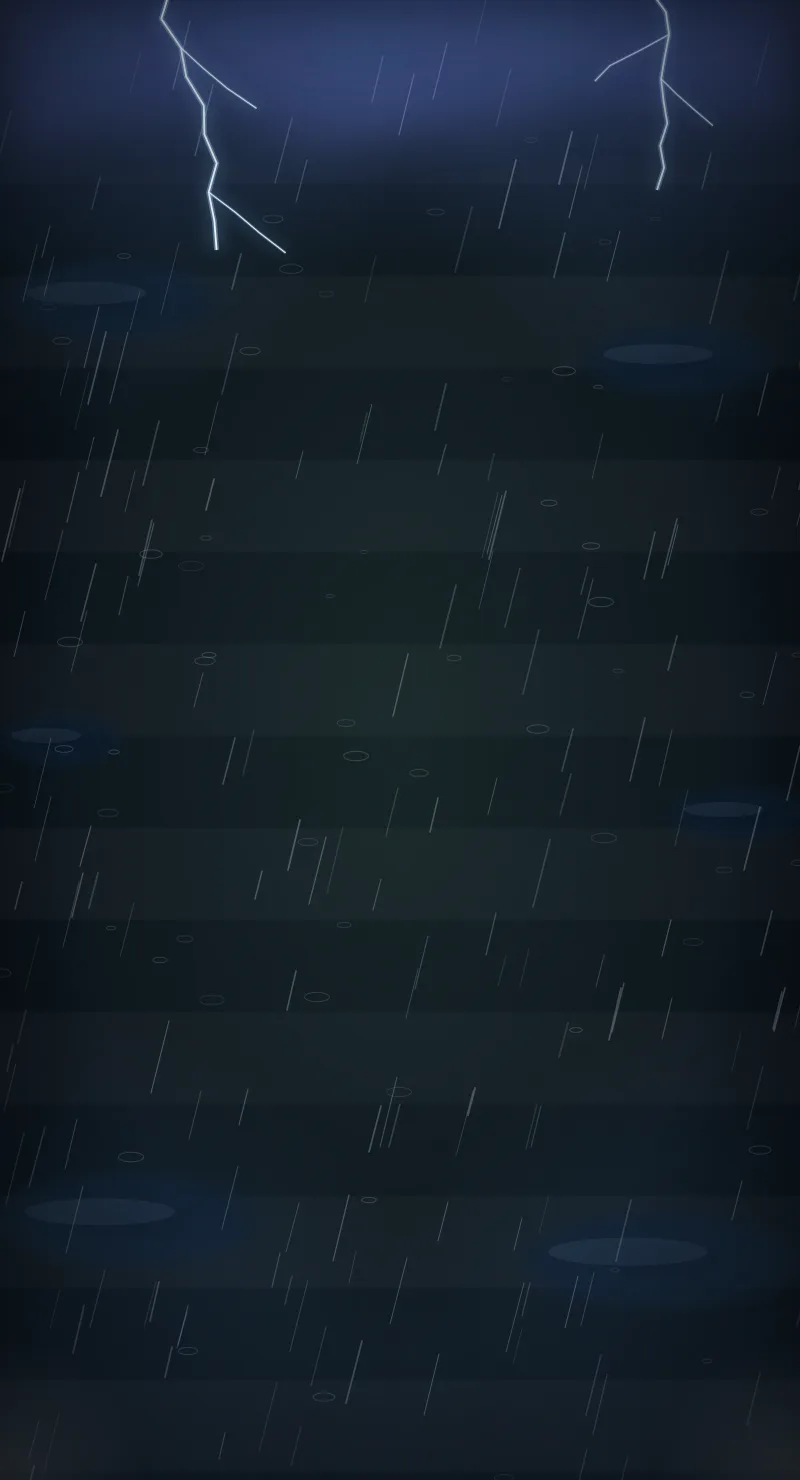
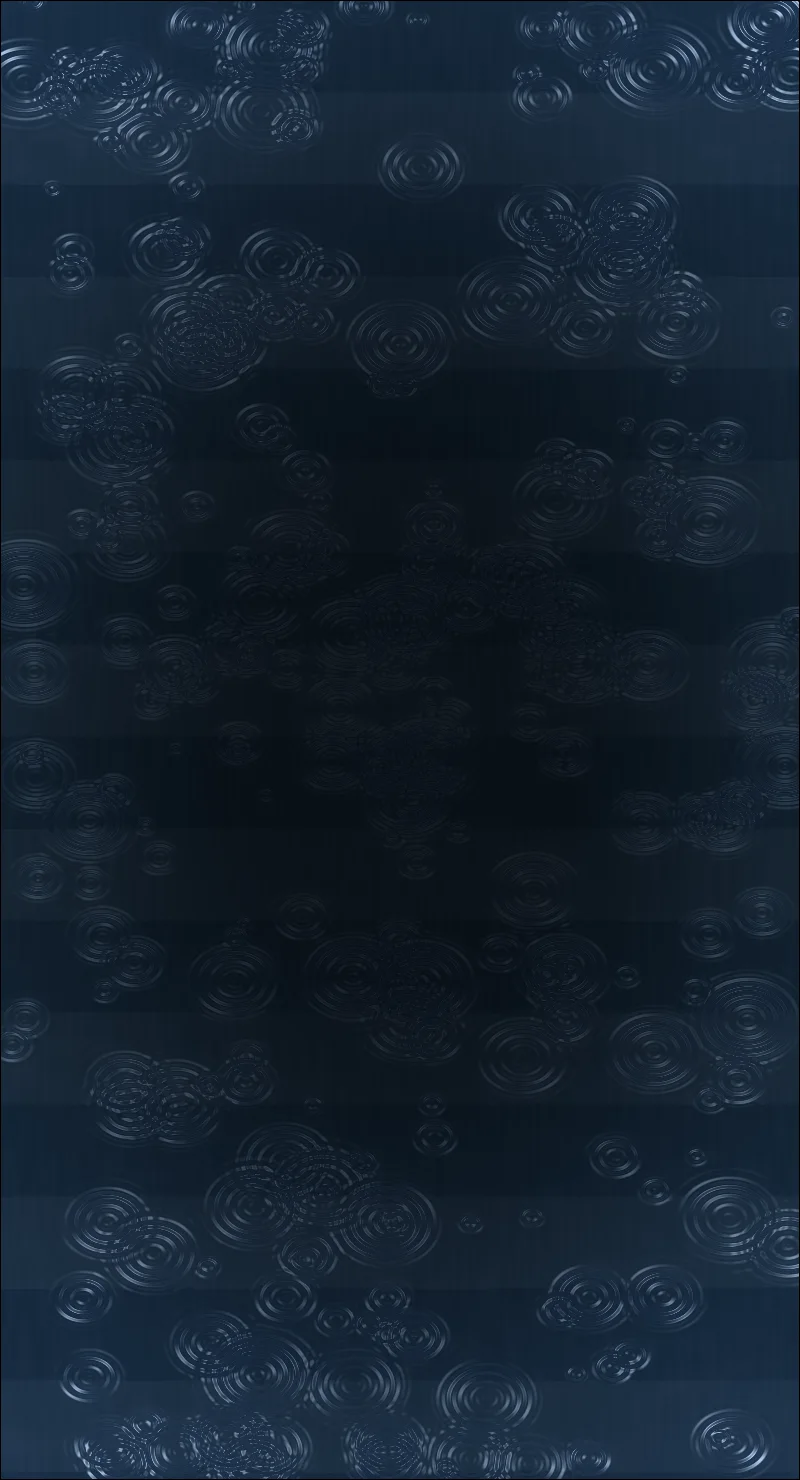
turn on the November event as Toró with the new award cards
Start the November theme a day early (31/10) under the name Toró, use the
new award designs for it (sun for Melhor Jogador, water with the rain cloud
for the highlights) and redraw the tactical board as a flooded court.
Cards already awarded keep their stored Halloween theme.

diff --git a/components/cancha-card.tsx b/components/cancha-card.tsx
@@ -171,18 +171,19 @@ function awardRoupa(kind: AwardKind, theme: CardThemeKey): Roupa {
   const provisional = PROVISIONAL_AWARD_ROUPAS[design];
   if (provisional) return { ...provisional, trim: theme === "halloween" ? "abobora" : "destaque" };
   const isCraque = design === "craque";
-  const colors = (isCraque ? CRAQUE_COLORS : HIGHLIGHT_COLORS)[theme];
+  // No Toró, Melhor Jogador e destaques usam as cartas novas dos prêmios (o sol art déco e a água
+  // com a nuvem chovendo, as mesmas de fora de evento), no lugar da taça e dos raios dourados
+  // (pedido do dono do app em 2026-10-31).
+  const designTheme: CardThemeKey = theme === "temporal" ? "default" : theme;
+  const colors = (isCraque ? CRAQUE_COLORS : HIGHLIGHT_COLORS)[designTheme];
   const art = isCraque ? "craque" : HIGHLIGHT_ART.has(kind) ? kind : "gol";
   return {
-    // Destaques: um fundo só, sem o ícone do prêmio. No Temporal, os raios (aprovado pelo dono
-    // do app em 2026-10-30); fora de evento, o mármore líquido da água (2026-10-31).
+    // Destaques: um fundo só, sem o ícone do prêmio: o mármore líquido da água (2026-10-31).
     background: isCraque
-      ? `premio-${art}-${theme}`
-      : theme === "temporal"
-        ? "premio-destaque-temporal"
-        : theme === "default"
-          ? "premio-destaque-agua"
-          : `premio-${art}-${theme}`,
+      ? `premio-${art}-${designTheme}`
+      : designTheme === "default"
+        ? "premio-destaque-agua"
+        : `premio-${art}-${designTheme}`,
     metal: [colors.frame, colors.frame, colors.hairline],
     accent: colors.accent,
     light: colors.light,
@@ -190,7 +191,7 @@ function awardRoupa(kind: AwardKind, theme: CardThemeKey): Roupa {
     muted: colors.muted,
     sparkles: false,
     neon: colors.neon,
-    trim: isCraque ? "craque" : theme === "halloween" ? "abobora" : theme === "default" ? "chuva" : "destaque",
+    trim: isCraque ? "craque" : designTheme === "halloween" ? "abobora" : designTheme === "default" ? "chuva" : "destaque",
   };
 }
 

diff --git a/lib/card-themes.ts b/lib/card-themes.ts
@@ -5,8 +5,10 @@
  * em app/globals.css e as classes em components/player-card.tsx.
  */
 export const CARD_THEMES = [
-  { key: "halloween", label: "Halloween", startMonthDay: "10-01", endMonthDay: "10-31" },
-  { key: "temporal", label: "Temporal", startMonthDay: "11-01", endMonthDay: "11-30" },
+  { key: "halloween", label: "Halloween", startMonthDay: "10-01", endMonthDay: "10-30" },
+  // O evento de novembro (chave `temporal`, o nome do começo; na tela "Toró") foi ligado um dia
+  // antes, em 31/10, a pedido do dono do app. As cartas já ganhas guardam o tema delas.
+  { key: "temporal", label: "Toró", startMonthDay: "10-31", endMonthDay: "11-30" },
 ] as const;
 
 export type CardThemeKey = "default" | (typeof CARD_THEMES)[number]["key"];

diff --git a/app/_components/news-slider.tsx b/app/_components/news-slider.tsx
@@ -169,7 +169,7 @@ const COIN_CHIPS = pickRules(COIN_RULES, ["Jogar uma rodada", "Enviar as suas no
 /** Texto do 1º slide por tema do mês. Tema novo: entre aqui (e em `CARD_THEMES`). */
 const EVENT_COPY: Record<CardThemeKey, { eyebrow: string; title: string; icon: LucideIcon }> = {
   halloween: { eyebrow: "Evento de outubro", title: "Halloween na pelada", icon: GhostIcon },
-  temporal: { eyebrow: "Evento de novembro", title: "Temporal na pelada", icon: CloudLightningIcon },
+  temporal: { eyebrow: "Evento de novembro", title: "Toró na pelada", icon: CloudLightningIcon },
   default: { eyebrow: "Coleção", title: "Cartas especiais", icon: SparklesIcon },
 };
 

diff --git a/app/rodadas/[matchId]/vencedores/_components/reveal-theme.ts b/app/rodadas/[matchId]/vencedores/_components/reveal-theme.ts
@@ -43,6 +43,6 @@ export const PACK_THEMES: Record<
     body: "bg-linear-160 from-[oklch(0.3_0.06_250)] to-award-craque-temporal-to",
     text: "text-award-craque-temporal-foreground",
     border: "border-award-craque-temporal-frame/60",
-    label: "Temporal",
+    label: "Toró",
   },
 };

diff --git a/CLAUDE.md b/CLAUDE.md
@@ -10,7 +10,7 @@ O **Cancha Club** (chamado PeladApp até 2026-10-24) é uma aplicação web full
 
 Design mobile-first é inegociável: a interação principal (dar notas no vestiário) acontece no celular.
 
-**Estado atual:** tudo lê o Supabase (não há mais mocks). Home (`/`) e atleta (`/jogadores/[memberId]`) leem de `lib/league.ts`; OVR e atributos são sempre calculados das avaliações (`lib/ovr.ts`, `lib/players.ts`); o **OVR é a média das 2 maiores das 3 estatísticas da carta** (Ataque = média de VEL e CHU, Criação = PAS e DRI, Defesa = DEF e FIS; no goleiro Paredão = REF e ELA, Leitura = POS e SAI, Saída = REP e PÉS; cada uma arredondada, a mais fraca sai e o OVR é a média das outras duas, arredondada; desde 2026-10-29, `lib/card-stats.ts` (`OVR_COUNTED_STATS`), migration `20261029130000`, `card_ovr` no banco; antes era a média dos 5 melhores atributos e, por algumas horas, a das 3). Contas: **só o dono da pelada cria e gerencia**, em `/elenco`, por **nome de usuário, sem e-mail** (senha gerada via chave secreta, sem troca obrigatória: o jogador troca se quiser em Eu → "Sua senha"; "Redefinir senha" no elenco). Não existe mais link de convite/cadastro. Login por usuário (ou e-mail, nas contas antigas) e senha (`/entrar`), "Sair" na página Eu. `/bem-vindo` cria a pelada (só o 1º organizador) e leva ao `/elenco`. A antiga `/pelada` virou duas páginas (`/pelada` redireciona para `/rodadas` em `next.config.ts`): **`/rodadas`** (atração principal: nova rodada com data + confirmados do WhatsApp + **sorteio dos times pelo OVR**, lista de rodadas e fechar rodada) e **`/elenco`** (gestão de cadastro, **só o Administrador**: quem não é vai para o Início; cadastrar jogador e painel "Gerenciar" com foto, editar dados, promoção a organizador, redefinir senha e desativar/reativar). A própria conta fica em **`/eu`**: a carta, **Minhas cartas** (escolher a carta em uso), "Sua foto", "Seu nome e apelido", "Sua senha" e "Sair". Sem placar: os times revezam. Todas as rotas, menos `/entrar` e `/auth/*`, exigem login (`proxy.ts`). **Mesa tática (`/rodadas/[matchId]`)**: a partida em campo (Branco x Preto, 1-2-1, titulares e reservas com as cartas completas), aberta ao criar a rodada, com o **cenário do evento** da data da rodada em volta do campo (`PITCH_SCENES` em `team-pitch.tsx`, arte em `public/mesa/<tema>.webp`); dá para avaliar tocando nas cartas e enviar com os votos (`app/rodadas/[matchId]/`, `lib/formation.ts`, `lib/rating-drafts.ts`). Tela de notas passo a passo (`/avaliar/[matchId]`): um jogador por vez, **nota para todos os outros presentes, sem pular** (decisão do dono do app em 2026-10-23; a mesa tática só libera "Votar e enviar" com todos avaliados), envio em lote por `submitEvaluations` (revalida tudo no servidor, inclusive que avaliou todos; uma única inserção). **Fechar a rodada exige 5 envios completos** (`MIN_SUBMISSIONS_TO_CLOSE` em `lib/round-rules.ts`, espelhado em `close_match`) e a **média é aparada como na Street League**: em cada rodada, com 4 ou mais notas recebidas, saem a maior e a menor (ver "Média aparada" abaixo). Publicado na Vercel a partir da `main`. **É um PWA** (desde 2026-10-24): `app/manifest.ts` (tela cheia, `#0b130f`), ícone em `app/icon.svg` (a marca "Quadra vazada" de `components/brand-logo.tsx`, não mais o "C" da Barlow Condensed ExtraBold em contorno; os PNGs de `public/icons/` e `app/apple-icon.png` saem dele por `node scripts/generate-pwa-icons.mjs`, rodado à mão e versionado) e service worker `public/sw.js` (sem cache de páginas, de propósito; já trata `push` e o toque na notificação), registrado por `ServiceWorkerRegister` no layout; o `proxy.ts` deixa `manifest.webmanifest` e `sw.js` passarem sem login. Cartas especiais colecionáveis: **por voto** na tela de notas só o **Gol da Rodada**; **pelas notas da rodada** saem Melhor Jogador (maior nota da rodada entre todos, linha ou gol, desde 2026-10-23), Melhor Goleiro (maior nota do gol), um prêmio por estatística da carta (Melhor Atacante = maior Ataque, **Mais Criativo** = maior Criação, Melhor Defensor = maior Defesa, só linha; desde 2026-10-29, migration `20261029120100`: Foguete, Garçom, Drible, Motor e o **Time da Semana saíram do jogo**, as cartas antigas ficam) e a **Bola Murcha (menor nota da linha)**; Fair Play e Fominha saíram do jogo (decisões do dono do app em 2026-10-21); **só 4 visuais** de carta especial: Melhor Jogador, destaques (Gol e prêmios das estatísticas no visual do Gol, mudando o ícone e o atributo destacado; `awardDesignKind`), Time da Semana e Bola Murcha, além da arte do Time do Mês; e o **Time da Semana** (sem voto, sai das notas), mais o **Time do Mês** (sem voto: as 4 maiores médias do mês na linha e a maior do gol, ao fechar a rodada da última quinta; carta com a arte do dono do app, sem tema sazonal, com pontas e raios vazando do escudo), distribuídas ao fechar a rodada, com temas sazonais (`lib/card-themes.ts`: todas vestem o evento do mês; outubro Halloween; novembro **Temporal** (tempestade: céu escuro, chuva e raios, aprovado pelo dono do app em 2026-10-30; o Brasileirão foi tirado em 2026-10-29)), o evento do mês no **slider de novidades da home** (`NewsSlider`: Time do Mês, evento, Loja, Patentes, XP e CanchaCoins) e coleção em página própria. **Compartilhar nos stories:** na Coleção, o dono da carta (só ele) tem "Compartilhar nos stories" nas cartas da **rodada mais recente**; criou a rodada seguinte, as da anterior saem (`lib/award-share.ts`, sem migration). A arte 1080×1920 é **desenhada direto num canvas** (`lib/story-canvas.ts`, `renderStoryPng`, com as mesmas contas da carta por `getCanchaCardLook`) e vai para o compartilhar nativo (`navigator.share` com o arquivo; sem suporte, "Baixar imagem"). Trocou a captura da tela com `modern-screenshot` em 2026-10-30: no iPhone o story saía sem o fundo e sem o nome. Causa: a foto baixada por `fetch` no otimizador do Next (`/_next/image`) vem em JPEG, sem transparência, e cobria a carta; o canvas busca a foto direto no Storage (WebP, CORS liberado). Ao fechar, a home de cada um mostra **"Confira os vencedores"** até ele abrir o pacote em **`/rodadas/[matchId]/vencedores`** (animação de pacote do FIFA: até 6 passos, pelo peso do prêmio: prêmios individuais com a zoeira primeiro, o Time da Semana em campo, as cartas do Time do Mês e o Melhor Jogador por último, depois o resumo (`buildSteps` em `winners-reveal.tsx`); CSS puro, keyframes `reveal-*` no `globals.css`). O atleta tem duas abas: **Estatísticas** (`/jogadores/[id]`: próxima faixa, destaques, atributos x média da pelada via `lib/athlete-insights.ts` e `getTierProgress`) e **Coleção** (`/jogadores/[id]/colecao`: última conquista, galeria filtrável agrupada por evento). Foto do jogador: **upload pelo app** ("Sua foto" em `/eu` para cada um; "Gerenciar → Foto" para o dono). A máscara da pessoa vem **do servidor** (action `segmentPhoto`, nessa ordem e tudo gratuito: **BiRefNet Portrait num Space ZeroGPU próprio do Hugging Face** via `lib/hf-matte.ts` com `HF_SPACE_URL`/`HF_TOKEN`, código do Space em `hf-space/`; na mesma chamada (API `/enhance`) o Space **melhora a foto antes de recortar**: rosto pelo GFPGAN 1.4 e o resto pelo Real-ESRGAN x2, mistura "leve" (`FACE_WEIGHT` 0,5; a forte mudava a cor dos olhos), de volta ao tamanho enviado, e a carta usa a foto melhorada (decisão do dono do app em 2026-10-31, depois de um teste com a foto dele); as reservas abaixo só recortam; **remove.bg no plano gratuito** via `lib/remove-bg-matte.ts` com `REMOVE_BG_API_KEY`; e, sem os dois, MODNet local em `lib/person-matte.ts` via `onnxruntime-node`) ou, sem rede, **do aparelho** (MediaPipe `selfie_multiclass_256x256`, WASM e modelo servidos pelo app em `/mediapipe/`); o enquadramento no padrão das cartas do EA FC ("modelo C": ombros na largura toda da carta, do peito para cima), a curva e o resto ficam no aparelho (`lib/photo-cutout.ts`), com prévia na carta (**só a foto sem fundo**: a opção "Original" foi tirada por decisão do dono do app; sem recorte, pede para tentar de novo); `uploadPlayerPhoto` padroniza com `sharp` (WebP 640px) e grava as duas em `player-photos/<memberId>/<timestamp>-{cutout,original}.webp` pela chave secreta, apagando as anteriores. Na carta, a foto entra sem filtro de cor (o `PhotoTint` foi removido: fazia faixas no iPhone), com uma **sombra leve atrás da pessoa** (`PhotoShadow`: só degradês radiais no tom da carta, 40%). **XP, nível e CanchaCoins** (`lib/progression.ts`, derivados do histórico como o OVR, só rodadas fechadas; nível na carta e barra no perfil) e a **Loja** (`/loja`): vende **cartas premium** (`types/card-skin.ts`, estilo TOTY champanhe) liberadas por nível e pagas com CanchaCoins, em seções (só o que o jogador ainda não tem; as dele ficam em Eu → Minhas cartas): **Evento** (cartas com `event` em `CARD_SKINS`, à venda só durante o tema daquele ano, `isCardSkinOnSale`; Lobisomem e Vampiro, nível 3, 200 CC, só em outubro de 2026; **Nuvem carregada (no lugar do Trovão desde 2026-10-31) e Relâmpago (refeito em 2026-10-31 com a arte do dono do app: miolo no fundo, moldura pintada por fora da carta e raios que estalam como trovão)**, nível 3, 200 CC, só em novembro de 2026; quem comprou continua usando) e **Personalização premium** (as fixas). **Promoções** em `lib/shop-sale.ts` (`SHOP_SALES`: hoje a Black Friday, -30% em tudo de 01/11 a 30/11/2026): a Loja risca o preço de tabela e `buyCardSkin` cobra e grava o preço com desconto, calculado no servidor; a carta comprada e em uso substitui a carta padrão em todo lugar (as faixas Bronze/Prata/Ouro continuam pelo OVR). **Cartas de vitrine** (home, prêmio de primeiro login, Loja, Coleção vazia) usam o jogador de exemplo `SAMPLE_PLAYER` (`lib/sample-player.ts`), nunca o rosto e os dados de quem está logado (decisão do dono do app em 2026-10-22). **Navegação (`MainNav`, decisão do dono do app em 2026-10-22: uma por aparelho, cada tela com uma função):** Início, Rodadas, Carreira (`/carreira` → próprio perfil), Loja, Elenco (só o Administrador) e Eu; no celular, barra fixa embaixo (o cabeçalho fica só com o logo); no computador, os mesmos botões no cabeçalho. Faltam: fechamento automático da rodada (24h), animação de revelação do OVR (ver "Próximos passos"). Atualize esta linha quando isso mudar.
+**Estado atual:** tudo lê o Supabase (não há mais mocks). Home (`/`) e atleta (`/jogadores/[memberId]`) leem de `lib/league.ts`; OVR e atributos são sempre calculados das avaliações (`lib/ovr.ts`, `lib/players.ts`); o **OVR é a média das 2 maiores das 3 estatísticas da carta** (Ataque = média de VEL e CHU, Criação = PAS e DRI, Defesa = DEF e FIS; no goleiro Paredão = REF e ELA, Leitura = POS e SAI, Saída = REP e PÉS; cada uma arredondada, a mais fraca sai e o OVR é a média das outras duas, arredondada; desde 2026-10-29, `lib/card-stats.ts` (`OVR_COUNTED_STATS`), migration `20261029130000`, `card_ovr` no banco; antes era a média dos 5 melhores atributos e, por algumas horas, a das 3). Contas: **só o dono da pelada cria e gerencia**, em `/elenco`, por **nome de usuário, sem e-mail** (senha gerada via chave secreta, sem troca obrigatória: o jogador troca se quiser em Eu → "Sua senha"; "Redefinir senha" no elenco). Não existe mais link de convite/cadastro. Login por usuário (ou e-mail, nas contas antigas) e senha (`/entrar`), "Sair" na página Eu. `/bem-vindo` cria a pelada (só o 1º organizador) e leva ao `/elenco`. A antiga `/pelada` virou duas páginas (`/pelada` redireciona para `/rodadas` em `next.config.ts`): **`/rodadas`** (atração principal: nova rodada com data + confirmados do WhatsApp + **sorteio dos times pelo OVR**, lista de rodadas e fechar rodada) e **`/elenco`** (gestão de cadastro, **só o Administrador**: quem não é vai para o Início; cadastrar jogador e painel "Gerenciar" com foto, editar dados, promoção a organizador, redefinir senha e desativar/reativar). A própria conta fica em **`/eu`**: a carta, **Minhas cartas** (escolher a carta em uso), "Sua foto", "Seu nome e apelido", "Sua senha" e "Sair". Sem placar: os times revezam. Todas as rotas, menos `/entrar` e `/auth/*`, exigem login (`proxy.ts`). **Mesa tática (`/rodadas/[matchId]`)**: a partida em campo (Branco x Preto, 1-2-1, titulares e reservas com as cartas completas), aberta ao criar a rodada, com o **cenário do evento** da data da rodada em volta do campo (`PITCH_SCENES` em `team-pitch.tsx`, arte em `public/mesa/<tema>.webp`); dá para avaliar tocando nas cartas e enviar com os votos (`app/rodadas/[matchId]/`, `lib/formation.ts`, `lib/rating-drafts.ts`). Tela de notas passo a passo (`/avaliar/[matchId]`): um jogador por vez, **nota para todos os outros presentes, sem pular** (decisão do dono do app em 2026-10-23; a mesa tática só libera "Votar e enviar" com todos avaliados), envio em lote por `submitEvaluations` (revalida tudo no servidor, inclusive que avaliou todos; uma única inserção). **Fechar a rodada exige 5 envios completos** (`MIN_SUBMISSIONS_TO_CLOSE` em `lib/round-rules.ts`, espelhado em `close_match`) e a **média é aparada como na Street League**: em cada rodada, com 4 ou mais notas recebidas, saem a maior e a menor (ver "Média aparada" abaixo). Publicado na Vercel a partir da `main`. **É um PWA** (desde 2026-10-24): `app/manifest.ts` (tela cheia, `#0b130f`), ícone em `app/icon.svg` (a marca "Quadra vazada" de `components/brand-logo.tsx`, não mais o "C" da Barlow Condensed ExtraBold em contorno; os PNGs de `public/icons/` e `app/apple-icon.png` saem dele por `node scripts/generate-pwa-icons.mjs`, rodado à mão e versionado) e service worker `public/sw.js` (sem cache de páginas, de propósito; já trata `push` e o toque na notificação), registrado por `ServiceWorkerRegister` no layout; o `proxy.ts` deixa `manifest.webmanifest` e `sw.js` passarem sem login. Cartas especiais colecionáveis: **por voto** na tela de notas só o **Gol da Rodada**; **pelas notas da rodada** saem Melhor Jogador (maior nota da rodada entre todos, linha ou gol, desde 2026-10-23), Melhor Goleiro (maior nota do gol), um prêmio por estatística da carta (Melhor Atacante = maior Ataque, **Mais Criativo** = maior Criação, Melhor Defensor = maior Defesa, só linha; desde 2026-10-29, migration `20261029120100`: Foguete, Garçom, Drible, Motor e o **Time da Semana saíram do jogo**, as cartas antigas ficam) e a **Bola Murcha (menor nota da linha)**; Fair Play e Fominha saíram do jogo (decisões do dono do app em 2026-10-21); **só 4 visuais** de carta especial: Melhor Jogador, destaques (Gol e prêmios das estatísticas no visual do Gol, mudando o ícone e o atributo destacado; `awardDesignKind`), Time da Semana e Bola Murcha, além da arte do Time do Mês; e o **Time da Semana** (sem voto, sai das notas), mais o **Time do Mês** (sem voto: as 4 maiores médias do mês na linha e a maior do gol, ao fechar a rodada da última quinta; carta com a arte do dono do app, sem tema sazonal, com pontas e raios vazando do escudo), distribuídas ao fechar a rodada, com temas sazonais (`lib/card-themes.ts`: todas vestem o evento do mês; outubro Halloween (01/10 a 30/10); novembro **Toró** (as chuvas de novembro; chave `temporal` no código, o nome do começo; tempestade: céu escuro, chuva e raios, aprovado pelo dono do app em 2026-10-30, **ligado um dia antes, em 31/10, a pedido dele**, e renomeado para Toró no mesmo dia; o Brasileirão foi tirado em 2026-10-29). **As cartas já ganhas guardam o tema delas** (`awards.theme`): as de Halloween continuam com o visual de Halloween na coleção para sempre; só as novas saem no tema do dia), o evento do mês no **slider de novidades da home** (`NewsSlider`: Time do Mês, evento, Loja, Patentes, XP e CanchaCoins) e coleção em página própria. **Compartilhar nos stories:** na Coleção, o dono da carta (só ele) tem "Compartilhar nos stories" nas cartas da **rodada mais recente**; criou a rodada seguinte, as da anterior saem (`lib/award-share.ts`, sem migration). A arte 1080×1920 é **desenhada direto num canvas** (`lib/story-canvas.ts`, `renderStoryPng`, com as mesmas contas da carta por `getCanchaCardLook`) e vai para o compartilhar nativo (`navigator.share` com o arquivo; sem suporte, "Baixar imagem"). Trocou a captura da tela com `modern-screenshot` em 2026-10-30: no iPhone o story saía sem o fundo e sem o nome. Causa: a foto baixada por `fetch` no otimizador do Next (`/_next/image`) vem em JPEG, sem transparência, e cobria a carta; o canvas busca a foto direto no Storage (WebP, CORS liberado). Ao fechar, a home de cada um mostra **"Confira os vencedores"** até ele abrir o pacote em **`/rodadas/[matchId]/vencedores`** (animação de pacote do FIFA: até 6 passos, pelo peso do prêmio: prêmios individuais com a zoeira primeiro, o Time da Semana em campo, as cartas do Time do Mês e o Melhor Jogador por último, depois o resumo (`buildSteps` em `winners-reveal.tsx`); CSS puro, keyframes `reveal-*` no `globals.css`). O atleta tem duas abas: **Estatísticas** (`/jogadores/[id]`: próxima faixa, destaques, atributos x média da pelada via `lib/athlete-insights.ts` e `getTierProgress`) e **Coleção** (`/jogadores/[id]/colecao`: última conquista, galeria filtrável agrupada por evento). Foto do jogador: **upload pelo app** ("Sua foto" em `/eu` para cada um; "Gerenciar → Foto" para o dono). A máscara da pessoa vem **do servidor** (action `segmentPhoto`, nessa ordem e tudo gratuito: **BiRefNet Portrait num Space ZeroGPU próprio do Hugging Face** via `lib/hf-matte.ts` com `HF_SPACE_URL`/`HF_TOKEN`, código do Space em `hf-space/`; na mesma chamada (API `/enhance`) o Space **melhora a foto antes de recortar**: rosto pelo GFPGAN 1.4 e o resto pelo Real-ESRGAN x2, mistura "leve" (`FACE_WEIGHT` 0,5; a forte mudava a cor dos olhos), de volta ao tamanho enviado, e a carta usa a foto melhorada (decisão do dono do app em 2026-10-31, depois de um teste com a foto dele); as reservas abaixo só recortam; **remove.bg no plano gratuito** via `lib/remove-bg-matte.ts` com `REMOVE_BG_API_KEY`; e, sem os dois, MODNet local em `lib/person-matte.ts` via `onnxruntime-node`) ou, sem rede, **do aparelho** (MediaPipe `selfie_multiclass_256x256`, WASM e modelo servidos pelo app em `/mediapipe/`); o enquadramento no padrão das cartas do EA FC ("modelo C": ombros na largura toda da carta, do peito para cima), a curva e o resto ficam no aparelho (`lib/photo-cutout.ts`), com prévia na carta (**só a foto sem fundo**: a opção "Original" foi tirada por decisão do dono do app; sem recorte, pede para tentar de novo); `uploadPlayerPhoto` padroniza com `sharp` (WebP 640px) e grava as duas em `player-photos/<memberId>/<timestamp>-{cutout,original}.webp` pela chave secreta, apagando as anteriores. Na carta, a foto entra sem filtro de cor (o `PhotoTint` foi removido: fazia faixas no iPhone), com uma **sombra leve atrás da pessoa** (`PhotoShadow`: só degradês radiais no tom da carta, 40%). **XP, nível e CanchaCoins** (`lib/progression.ts`, derivados do histórico como o OVR, só rodadas fechadas; nível na carta e barra no perfil) e a **Loja** (`/loja`): vende **cartas premium** (`types/card-skin.ts`, estilo TOTY champanhe) liberadas por nível e pagas com CanchaCoins, em seções (só o que o jogador ainda não tem; as dele ficam em Eu → Minhas cartas): **Evento** (cartas com `event` em `CARD_SKINS`, à venda só durante o tema daquele ano, `isCardSkinOnSale`; Lobisomem e Vampiro, nível 3, 200 CC, só em outubro de 2026; **Nuvem carregada (no lugar do Trovão desde 2026-10-31) e Relâmpago (refeito em 2026-10-31 com a arte do dono do app: miolo no fundo, moldura pintada por fora da carta e raios que estalam como trovão)**, nível 3, 200 CC, só em novembro de 2026; quem comprou continua usando) e **Personalização premium** (as fixas). **Promoções** em `lib/shop-sale.ts` (`SHOP_SALES`: hoje a Black Friday, -30% em tudo de 01/11 a 30/11/2026): a Loja risca o preço de tabela e `buyCardSkin` cobra e grava o preço com desconto, calculado no servidor; a carta comprada e em uso substitui a carta padrão em todo lugar (as faixas Bronze/Prata/Ouro continuam pelo OVR). **Cartas de vitrine** (home, prêmio de primeiro login, Loja, Coleção vazia) usam o jogador de exemplo `SAMPLE_PLAYER` (`lib/sample-player.ts`), nunca o rosto e os dados de quem está logado (decisão do dono do app em 2026-10-22). **Navegação (`MainNav`, decisão do dono do app em 2026-10-22: uma por aparelho, cada tela com uma função):** Início, Rodadas, Carreira (`/carreira` → próprio perfil), Loja, Elenco (só o Administrador) e Eu; no celular, barra fixa embaixo (o cabeçalho fica só com o logo); no computador, os mesmos botões no cabeçalho. Faltam: fechamento automático da rodada (24h), animação de revelação do OVR (ver "Próximos passos"). Atualize esta linha quando isso mudar.
 
 **Nome (decisão do dono do app em 2026-10-24):** o app se chama **Cancha Club** (já existia outro "PeladApp"); logo = a marca "Quadra vazada" + "CANCHA" e "CLUB" em lima, em caixa alta (`BrandLogo`/`BrandMark` em `components/brand-logo.tsx`; ver design-system), moeda **CanchaCoins (CC)**. Ficaram com o nome antigo **de propósito**, porque o usuário não vê e trocar quebraria algo: o domínio técnico do login `peladapp.invalid` (`lib/username.ts`; trocar derruba o login de todas as contas), o cookie `peladapp_active_group`, a chave `peladapp_nav_owner`, as migrations e scripts SQL, o Space `peladapp-recorte` do Hugging Face, o nome do pacote, a pasta e o repositório. Falta: busca de marca no INPI (com o dono) e registrar canchaclub.com.br.
 

diff --git a/.claude/rules/design-system.md b/.claude/rules/design-system.md
@@ -34,7 +34,7 @@ Desde 2026-10-29 todas as cartas usam a `CanchaCard` (o `PlayerCard` a chama). A
 - **Sombra atrás da foto (aprovada pelo dono do app em 2026-10-29, "A · Halo escuro"):** em toda carta com foto, uma sombra escura logo atrás da cabeça e dos ombros (`PhotoShadow`: elipses em SVG com o degradê `cc-photo-shadow` de `PlayerCardDefs`, atrás da faixa do nome), para o jogador se descolar do fundo. Não use `radial-gradient` do CSS para isso: no story do iPhone virava uma camada preta por cima do fundo e do nome.
 - **Carta padrão:** grafite fosco, sem brilho, moldura **fina de metal polido** (`METAL_FRAME`, faixas de reflexo na cor da moldura).
 - **Skins premium** (Esmeralda grátis, Safira, Ametista, Rubi e **Ícone em branco creme com dourado**, lembrando a Icon do FIFA; Turquesa e Ônix saíram em 2026-10-29): fundo lapidado na cor da pedra e moldura em **tubo de neon** (centro quase branco e a cor só no brilho, `NEON_FRAME`/`NEON_HALO`) com o **enfeite que abraça a base** (`NEON_TRIMS.base`: dois fios que começam no meio das laterais e fecham numa ponta embaixo).
-- **Temporal (novembro de 2026, aprovado pelo dono do app em 2026-10-30):** **Melhor Jogador** com a taça dourada no céu de tempestade, chuva fina e um raio (`prototipos/temporal.cjs`), neon dourado, estrela no topo e um fio na base (o dono testou raios dourados com cantos art déco e preferiu voltar a esse). **Destaques** (Atacante, Criativo, Defensor, Goleiro, Gol; aprovados pelo dono do app em 2026-10-30, a partir das referências dele): a imagem de raios que ele mandou **tingida de dourado** e **sem o ícone do prêmio** (um fundo só, `premio-destaque-temporal`, `prototipos/destaques-temporal.cjs`), **bem apagada, como marca d'água**, e neon dourado com o **enfeite simples dos outros eventos** (o traço curto na base, `NEON_TRIMS.destaque`; o dono testou a estrela no topo e um canto de sol art déco embaixo e preferiu o simples). O que distingue um destaque do outro no Temporal é só a faixa com o nome do prêmio. Loja: **Nuvem carregada** (aprovada pelo dono do app em 2026-10-31, no lugar do Trovão roxo, que ficava parecido com o Time do Mês): nuvens de tempestade pintadas em poucos tons, do cinza-azulado ao branco, com um canal de céu escuro atrás do jogador (`prototipos/skin-nuvem.cjs`), neon branco, a nuvem com raio no topo (`NEON_TRIMS.nuvem`), uma **moldura elétrica** em volta da metade de baixo, por fora (fio quebrado em zigue-zague, fios finos ondulando e faíscas, no estilo de uma moldura de raios que o dono mandou; `ElectricTrim`, `lib/electric-trim.ts`) e **mini raios no mesmo estilo** estalando nas nuvens de dentro, atrás do jogador (`CloudBolts`). Animação de trovão: os fios finos, as faíscas e os mini raios dão dois estalos rápidos e apagam, cada um no seu tempo (`cc-thunder-strike`/`cc-thunder-flash` no `globals.css`); só `opacity`, e com movimento reduzido fica parado (os mini raios somem). Testado e descartado pelo dono: as nuvens vazando para fora da carta (aparecia a divisa da carta) e raios grandes por cima delas; e uma skin de água com ondas de seda. E **Relâmpago** (refeito em 2026-10-31 a partir de uma **arte montada pelo próprio dono do app**, com referências do EA FC alteradas para o estilo do Cancha Club; `prototipos/relampago-arte-dono.jpg`): o miolo da arte (tempestade de nuvens com raios dourados, cacos e chão de triângulos em azul-noite) é o fundo, e a moldura dourada pintada, com o raio no topo, cacos e raios nas laterais, fica **por fora da carta** numa imagem transparente (`overflow`, `skin-relampago-vaza`); os **raios das decorações** ficam numa camada própria (`overflowBolts`, `skin-relampago-raios`) que **estala como trovão** (`cc-thunder-strike`), e a moldura de linhas retas fica sempre acesa. Neon dourado, sem enfeite de código (`trim: null`). `prototipos/skin-relampago-arte.cjs` separa as três imagens (medidas do tubo de dentro = borda da carta; o preto recortado pela luminância; os raios pelos retângulos medidos, sem as faixas das linhas). Testados e descartados pelo dono no caminho: asas de raio nas laterais (vazadas e cheias), base em suporte, coroa de raios, cantos art déco, moldura em zigue-zague, moldura em escudo, os fundos de rede de relâmpagos e de feixes de luz caindo, e fundos gerados pelo FLUX. **Lição do dono (2026-10-31):** arte desenhada só com código parece "feita no Paint"; para skins premium, ele quer textura real (render 3D, metal, nuvem volumétrica): arte gerada por modelo aberto (FLUX.1-schnell, grátis no Hugging Face, cota pequena sem login) ou montada por ele.relampago`). Aviso de vencedores, pacote e story em azul-tempestade com nuvem de raio.
+- **Toró (novembro de 2026; chave `temporal`; aprovado pelo dono do app em 2026-10-30, ligado em 31/10 e renomeado de "Temporal" para "Toró" no mesmo dia):** a **mesa tática** é uma **quadra alagada** renderizada pixel a pixel (lâmina de água com o piso por baixo, anéis dos pingos, marulho e o reflexo dos refletores dos cantos; meio escuro para as cartas; sem linhas, que cada campo já desenha; `prototipos/mesa-temporal.cjs`, `public/mesa/temporal.webp`). **Melhor Jogador** com a **mesma carta de fora de evento, o sol art déco** (pedido do dono do app em 2026-10-31; antes era a taça dourada no céu de tempestade, `premio-craque-temporal.webp`, que ficou sem uso), neon dourado, estrela no topo e um fio na base. **Destaques** (Atacante, Criativo, Defensor, Goleiro, Gol): a **mesma carta de fora de evento, a água com a nuvem chovendo** (pedido do dono do app em 2026-10-31; os raios dourados de marca d'água, `premio-destaque-temporal.webp`, ficaram sem uso). Loja: **Nuvem carregada** (aprovada pelo dono do app em 2026-10-31, no lugar do Trovão roxo, que ficava parecido com o Time do Mês): nuvens de tempestade pintadas em poucos tons, do cinza-azulado ao branco, com um canal de céu escuro atrás do jogador (`prototipos/skin-nuvem.cjs`), neon branco, a nuvem com raio no topo (`NEON_TRIMS.nuvem`), uma **moldura elétrica** em volta da metade de baixo, por fora (fio quebrado em zigue-zague, fios finos ondulando e faíscas, no estilo de uma moldura de raios que o dono mandou; `ElectricTrim`, `lib/electric-trim.ts`) e **mini raios no mesmo estilo** estalando nas nuvens de dentro, atrás do jogador (`CloudBolts`). Animação de trovão: os fios finos, as faíscas e os mini raios dão dois estalos rápidos e apagam, cada um no seu tempo (`cc-thunder-strike`/`cc-thunder-flash` no `globals.css`); só `opacity`, e com movimento reduzido fica parado (os mini raios somem). Testado e descartado pelo dono: as nuvens vazando para fora da carta (aparecia a divisa da carta) e raios grandes por cima delas; e uma skin de água com ondas de seda. E **Relâmpago** (refeito em 2026-10-31 a partir de uma **arte montada pelo próprio dono do app**, com referências do EA FC alteradas para o estilo do Cancha Club; `prototipos/relampago-arte-dono.jpg`): o miolo da arte (tempestade de nuvens com raios dourados, cacos e chão de triângulos em azul-noite) é o fundo, e a moldura dourada pintada, com o raio no topo, cacos e raios nas laterais, fica **por fora da carta** numa imagem transparente (`overflow`, `skin-relampago-vaza`); os **raios das decorações** ficam numa camada própria (`overflowBolts`, `skin-relampago-raios`) que **estala como trovão** (`cc-thunder-strike`), e a moldura de linhas retas fica sempre acesa. Neon dourado, sem enfeite de código (`trim: null`). `prototipos/skin-relampago-arte.cjs` separa as três imagens (medidas do tubo de dentro = borda da carta; o preto recortado pela luminância; os raios pelos retângulos medidos, sem as faixas das linhas). Testados e descartados pelo dono no caminho: asas de raio nas laterais (vazadas e cheias), base em suporte, coroa de raios, cantos art déco, moldura em zigue-zague, moldura em escudo, os fundos de rede de relâmpagos e de feixes de luz caindo, e fundos gerados pelo FLUX. **Lição do dono (2026-10-31):** arte desenhada só com código parece "feita no Paint"; para skins premium, ele quer textura real (render 3D, metal, nuvem volumétrica): arte gerada por modelo aberto (FLUX.1-schnell, grátis no Hugging Face, cota pequena sem login) ou montada por ele.relampago`). Aviso de vencedores, pacote e story em azul-tempestade com nuvem de raio.
 - **Halloween:** Lobisomem em neon azul-luar com **garras nas laterais e presas na base**; Vampiro em neon vermelho-sangue com **morcego no topo e a base recortada como asa**.
 - **Melhor Jogador (enfeite aprovado pelo dono do app em 2026-10-29):** estrela acesa no topo, acima do nome, e **um fio só** abraçando a base (dois ficaria igual às premium), em qualquer tema (no Halloween, no lugar da teia; `NEON_TRIMS.craque`).
 - **Prêmios:** Melhor Jogador com a taça ao lado do jogador nos eventos e, fora deles, o **sol art déco** (aprovado pelo dono do app em 2026-10-31, a partir das referências de sol dele: metal escovado escuro com o sol gravado em sulcos acesos de ouro atrás da cabeça, como uma auréola, na força cheia; o dono testou versões em marca d'água e preferiu a acesa; descartados o pôr do sol em faixas e o sol em chamas; `prototipos/craque-sol.cjs`). **Destaques fora de evento: a água** (aprovado pelo dono do app em 2026-10-31, a partir das referências dele): **mármore líquido** em azul-marinho escuro (faixas em dois tons com um fio claro na borda, `premio-destaque-agua`, `prototipos/destaques-agua.cjs`; descartadas as cáusticas e a topografia), um fundo só para todos, **sem o ícone do prêmio** (o que distingue é a faixa com o nome), e no topo a **nuvem chovendo em neon** (o ícone que o dono mandou: nuvem fechada e quatro pingos inclinados, `NEON_TRIMS.chuva`) com o traço curto na base, destaques (Atacante, Criativo, Defensor, Goleiro, Gol) com o ícone do prêmio ao lado, vestindo o tema do mês; moldura em neon na cor do prêmio, com um **traço curto com a pontinha para baixo no meio da base** (`NEON_TRIMS.destaque`) e, no Halloween, também uma **abóbora acesa no centro do topo** (`NEON_TRIMS.abobora`, no lugar da teia de antes). O Time da Semana antigo (fora do jogo) usa neon dourado e a mesma regra. **Enfeites mais neon** (2026-10-29): todo enfeite tem o miolo quase branco (`NEON_CORE`) e halo mais forte, como o tubo da moldura.

diff --git a/docs/calendario-eventos.md b/docs/calendario-eventos.md
@@ -18,8 +18,8 @@ Regras de visual que valem para todo evento: sem `filter` e sem `mix-blend-mode`
 
 | Período | Evento | Status | Cartas na Loja |
 |---|---|---|---|
-| 01/10 – 31/10/2026 | **Halloween** | 🟢 no ar | Lobisomem e Vampiro (nível 3, 200 PC) |
-| 01/11 – 30/11/2026 | **Temporal + Black Friday** | ✅ aprovado (2026-10-30), entra sozinho em 01/11 | Nuvem carregada e Relâmpago (nível 3, 200 CC; -30% na Black Friday) |
+| 01/10 – 30/10/2026 | **Halloween** | ✅ encerrado (as cartas ganhas ficam com o visual) | Lobisomem e Vampiro (nível 3, 200 PC) |
+| 31/10 – 30/11/2026 | **Toró (antes "Temporal") + Black Friday** | 🟢 no ar desde 31/10 (ligado um dia antes, a pedido do dono) | Nuvem carregada e Relâmpago (nível 3, 200 CC; -30% na Black Friday) |
 | Dezembro/2026 | **Natal** (cartas especiais) **+ Vingadores: Doomsday** (Loja), ao mesmo tempo; **Time do Ano** na última semana | ✅ escolhido pelo dono do app (2026-10-22), detalhes a definir | Cartas dos Vingadores (quantidade, nível e preço a definir) |
 | Janeiro/2027 | _a definir_ | 💡 | — |
 | Fevereiro/2027 | _a definir_ | 💡 | — |
